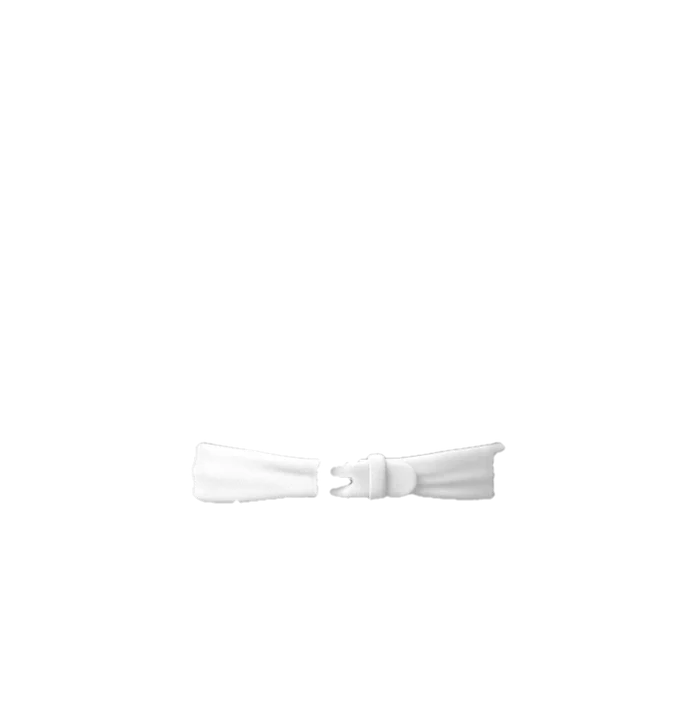
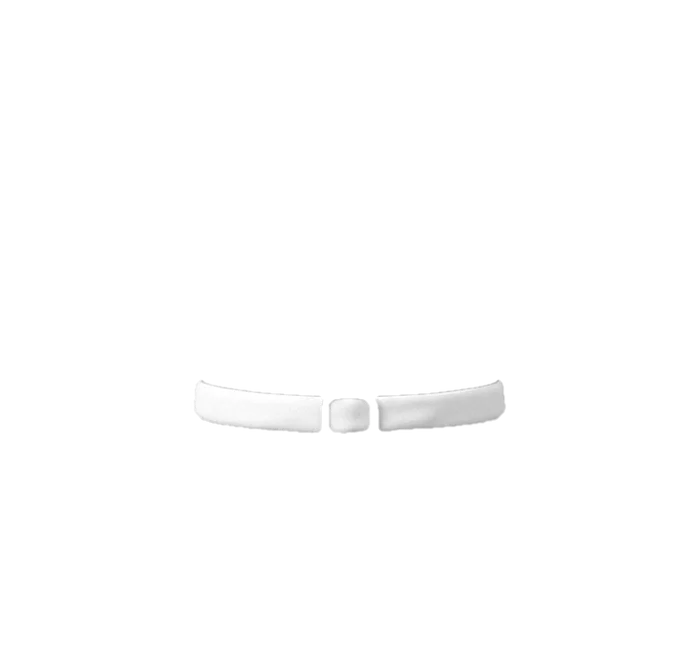
Atelier v10: clients stand centred on the round stand; the nature bear arrives bare

Changed region(s): [[0.3, 0.574, 0.72, 0.6949], [0.3, 0.6949, 0.36, 0.7251]]

diff --git a/atelier/game.js b/atelier/game.js
@@ -14,12 +14,13 @@
    Tiers: 1 (to 6) felt, whole cm · 2 (7–10) nature-tech, half cm · 3 (11+) nature-tech, mm and π. */
 (function () {
   'use strict';
-  const VERSION = 9;
+  const VERSION = 10;
   const $ = (s, r) => (r || document).querySelector(s), el = (t, c, txt) => { const e = document.createElement(t); if (c) e.className = c; if (txt != null) e.textContent = txt; return e; };
   const NS = 'http://www.w3.org/2000/svg', sv = (t, a) => { const e = document.createElementNS(NS, t); for (const k in a || {}) e.setAttribute(k, a[k]); return e; };
   const wait = ms => new Promise(r => setTimeout(r, ms)), clamp = (v, a, b) => Math.max(a, Math.min(b, v)), pick = a => a[Math.floor(Math.random() * a.length)];
   const stage = $('#stage'), world = $('#world'), scene = $('#scene'), overlay = $('#overlay'), table = $('#table'), ui = $('#ui'), actors = $('#actors');
-  const PREC = { 1: 1, 2: 0.5, 3: 0.1 }, TOL = { 1: 0.4, 2: 0.3, 3: 0.06 }, H = 58, IMG_CM = 30;
+  const PREC = { 1: 1, 2: 0.5, 3: 0.1 }, TOL = { 1: 0.4, 2: 0.3, 3: 0.06 }, IMG_CM = 30;
+  let H = 58;   /* a client's height on stage; each look sets its own (_look.h), so the client stands on the round stand clear of the chips at the top */
   const READZ = { 1: 2.6, 2: 3.2, 3: 4.4 }, SPAN = { 1: 8, 2: 5.5, 3: 2.6 };   /* Yoni 2026-10-19: 'relax with the zoom ... car sickness': shallow and slow, none on the felt table */
   const CLIENTS = { felt: ['girl', 'teddy', 'princess', 'fox'], nature: ['girl', 'bear', 'princess', 'fox'] };   /* felt dolls and felt animals; no boy, no grandma (Yoni 2026-10-19) */
   const COLOURS = ['#ff8fb8', '#8fd0f0', '#c0a0ff', '#ffcf6a', '#7fdcb0', '#ff9f90', '#e8545c', '#5a78c8'];
@@ -72,7 +73,7 @@
   const asset = (n, lk) => 'assets/' + (lk || S.look) + '/' + n;
   /* a picture that fails to load is tried again (three times, a short wait between), so a dropped connection never freezes the game */
   const loadImg = src => A.img[src] || (A.img[src] = new Promise((res, rej) => { let n = 0; const go = () => { const i = new Image(); i.onload = () => res(i); i.onerror = e => { if (++n < 4) setTimeout(go, 500 * n); else { delete A.img[src]; rej(e); } }; i.src = src + (n ? (src.includes('?') ? '&' : '?') + 'r=' + n : ''); }; go(); }));
-  async function loadLook() { $('#poster').src = asset('shop.webp'); $('#loop').src = asset('shop.mp4'); try { A.meta = await (await fetch(asset('meta.json'))).json(); } catch (e) { A.meta = {}; } for (const n of ['cl_disc', 'cl_strip', 'cl_sheet', 'beam', 'table.webp']) loadImg(asset(n.includes('.') ? n : n + '.webp')).catch(() => {}); }
+  async function loadLook() { $('#poster').src = asset('shop.webp'); $('#loop').src = asset('shop.mp4'); try { A.meta = await (await fetch(asset('meta.json'))).json(); } catch (e) { A.meta = {}; } H = (A.meta._look && A.meta._look.h) || 58; for (const n of ['cl_disc', 'cl_strip', 'cl_sheet', 'beam', 'table.webp']) loadImg(asset(n.includes('.') ? n : n + '.webp')).catch(() => {}); }
   function loopPlay(on) { const v = $('#loop'); if (on) { v.currentTime = 0; v.play().then(() => v.classList.add('on')).catch(() => {}); } else { v.classList.remove('on'); setTimeout(() => { if (!v.classList.contains('on')) v.pause(); }, 900); } }
   document.addEventListener('visibilitychange', () => { const v = $('#loop'); if (document.hidden) v.pause(); else if (v.classList.contains('on')) v.play().catch(() => {}); });
 

diff --git a/atelier/index.html b/atelier/index.html
@@ -69,6 +69,6 @@ html,body{height:100%} body{margin:0; background:var(--bg); color:var(--ink); fo
   <span class="ver" id="ver"></span>
 </div></div>
 <script src="strings.js?v=11"></script>
-<script src="game.js?v=32"></script>
+<script src="game.js?v=33"></script>
 </body>
 </html>

diff --git a/DECISIONS.md b/DECISIONS.md
@@ -19,6 +19,8 @@ Format: `- YYYY-MM-DD · topic · "his words" · what it means for the code`
 - 2026-09-17 · Order · "I need you to solve one by one do not try to solve all of them combined start with the home page"
 
 ## Log (newest first)
+- 2026-10-19 · The Atelier v10 on staging · every client stands centred on top of the round stand (felt: on the cushion, a little smaller so the head clears the chips; nature-tech: on the platform); the nature-tech bear arrives bare (a new picture without its vest, harness, boots and belt) and gets new pants, shirt and belt layers. Played by the test driver: bear age 9, teddy age 5 at phone size, girl age 5 desktop; all 8 clients checked on arrival. Spend: 4 Gemini edits ≈ $0.16 (round total ≈ $0.48 of the $1 ceiling).
+- 2026-10-19 · The Atelier v9 verdict · "You're showing me a teddy bear? In the studio? He's not in the middle. Of the circle, first of all. And secondly, he's already dressed. How does that make sense?" · shown two placements as a picture, picked "A: on the cushion" (on the round cushion, centred); on what he saw: "Clothes on arrival" · every client stands centred on the shop's round stand (the felt cushion, the nature-tech platform); a client arrives undressed: the nature-tech bear's own vest, harness, boots and belt are removed from its picture.
 - 2026-10-19 · The Atelier v9 on staging · no zoom on the cloth table at any age (reading, chalk, compass); a "מה מדדתם / What you measured" note on the right-hand side lists every number the kid measured for this client (leg, chest, waist, round the waist, radius) and stays until the client leaves; the notice bubble keeps clear of it. Played by the test driver: fox age 5 Hebrew desktop and phone size, girl age 9 English.
 - 2026-10-19 · The Atelier v8 verdict (playing staging) · "The back and forth of the Zoom when you do the actual measurement of the cloth is uh, useless. There's no, it's redundant. There's no way to do it. Also, uh, nobody can remember what they had on the uh, ruler that number needs to stay on on the right hand side. So someone will know or remember what to cut. Um, fixed for first." · no zoom in or out on the cloth table at any age; every number the kid measures stays on screen in a note on the right-hand side until the client leaves, so the kid knows what to cut.
 - 2026-10-19 · The Atelier v8 on staging · the girl and the princess: circle skirt, then belt; the fox and the teddy (felt) and the fox and the bear (nature-tech): pants (a ruler stood down the leg, red 0 on the waist line, read the blue line), then a shirt (a ruler across the chest), then the belt (tape round the waist); the belt is always last; the shirt sits tucked under the pants, the belt on top; the pay line names the client's own gender (משלם / משלמת); emoji icons removed (bell, scissors, circle; the speaker is drawn); "בן/בת כמה?" became "מה הגיל שלך?"; a picture that fails to load is retried instead of freezing the game. Played by the test driver: teddy and fox age 5 Hebrew desktop (fox with a wrong cut and its redo), fox age 5 at phone size, bear age 9 English, girl age 5. Spend: 8 Gemini image edits ≈ $0.32 (unverified rate, ~$0.04 each); Gemini 3.1 refused trousers on the felt teddy (PROHIBITED_CONTENT), Gemini 2.5 drew them.
